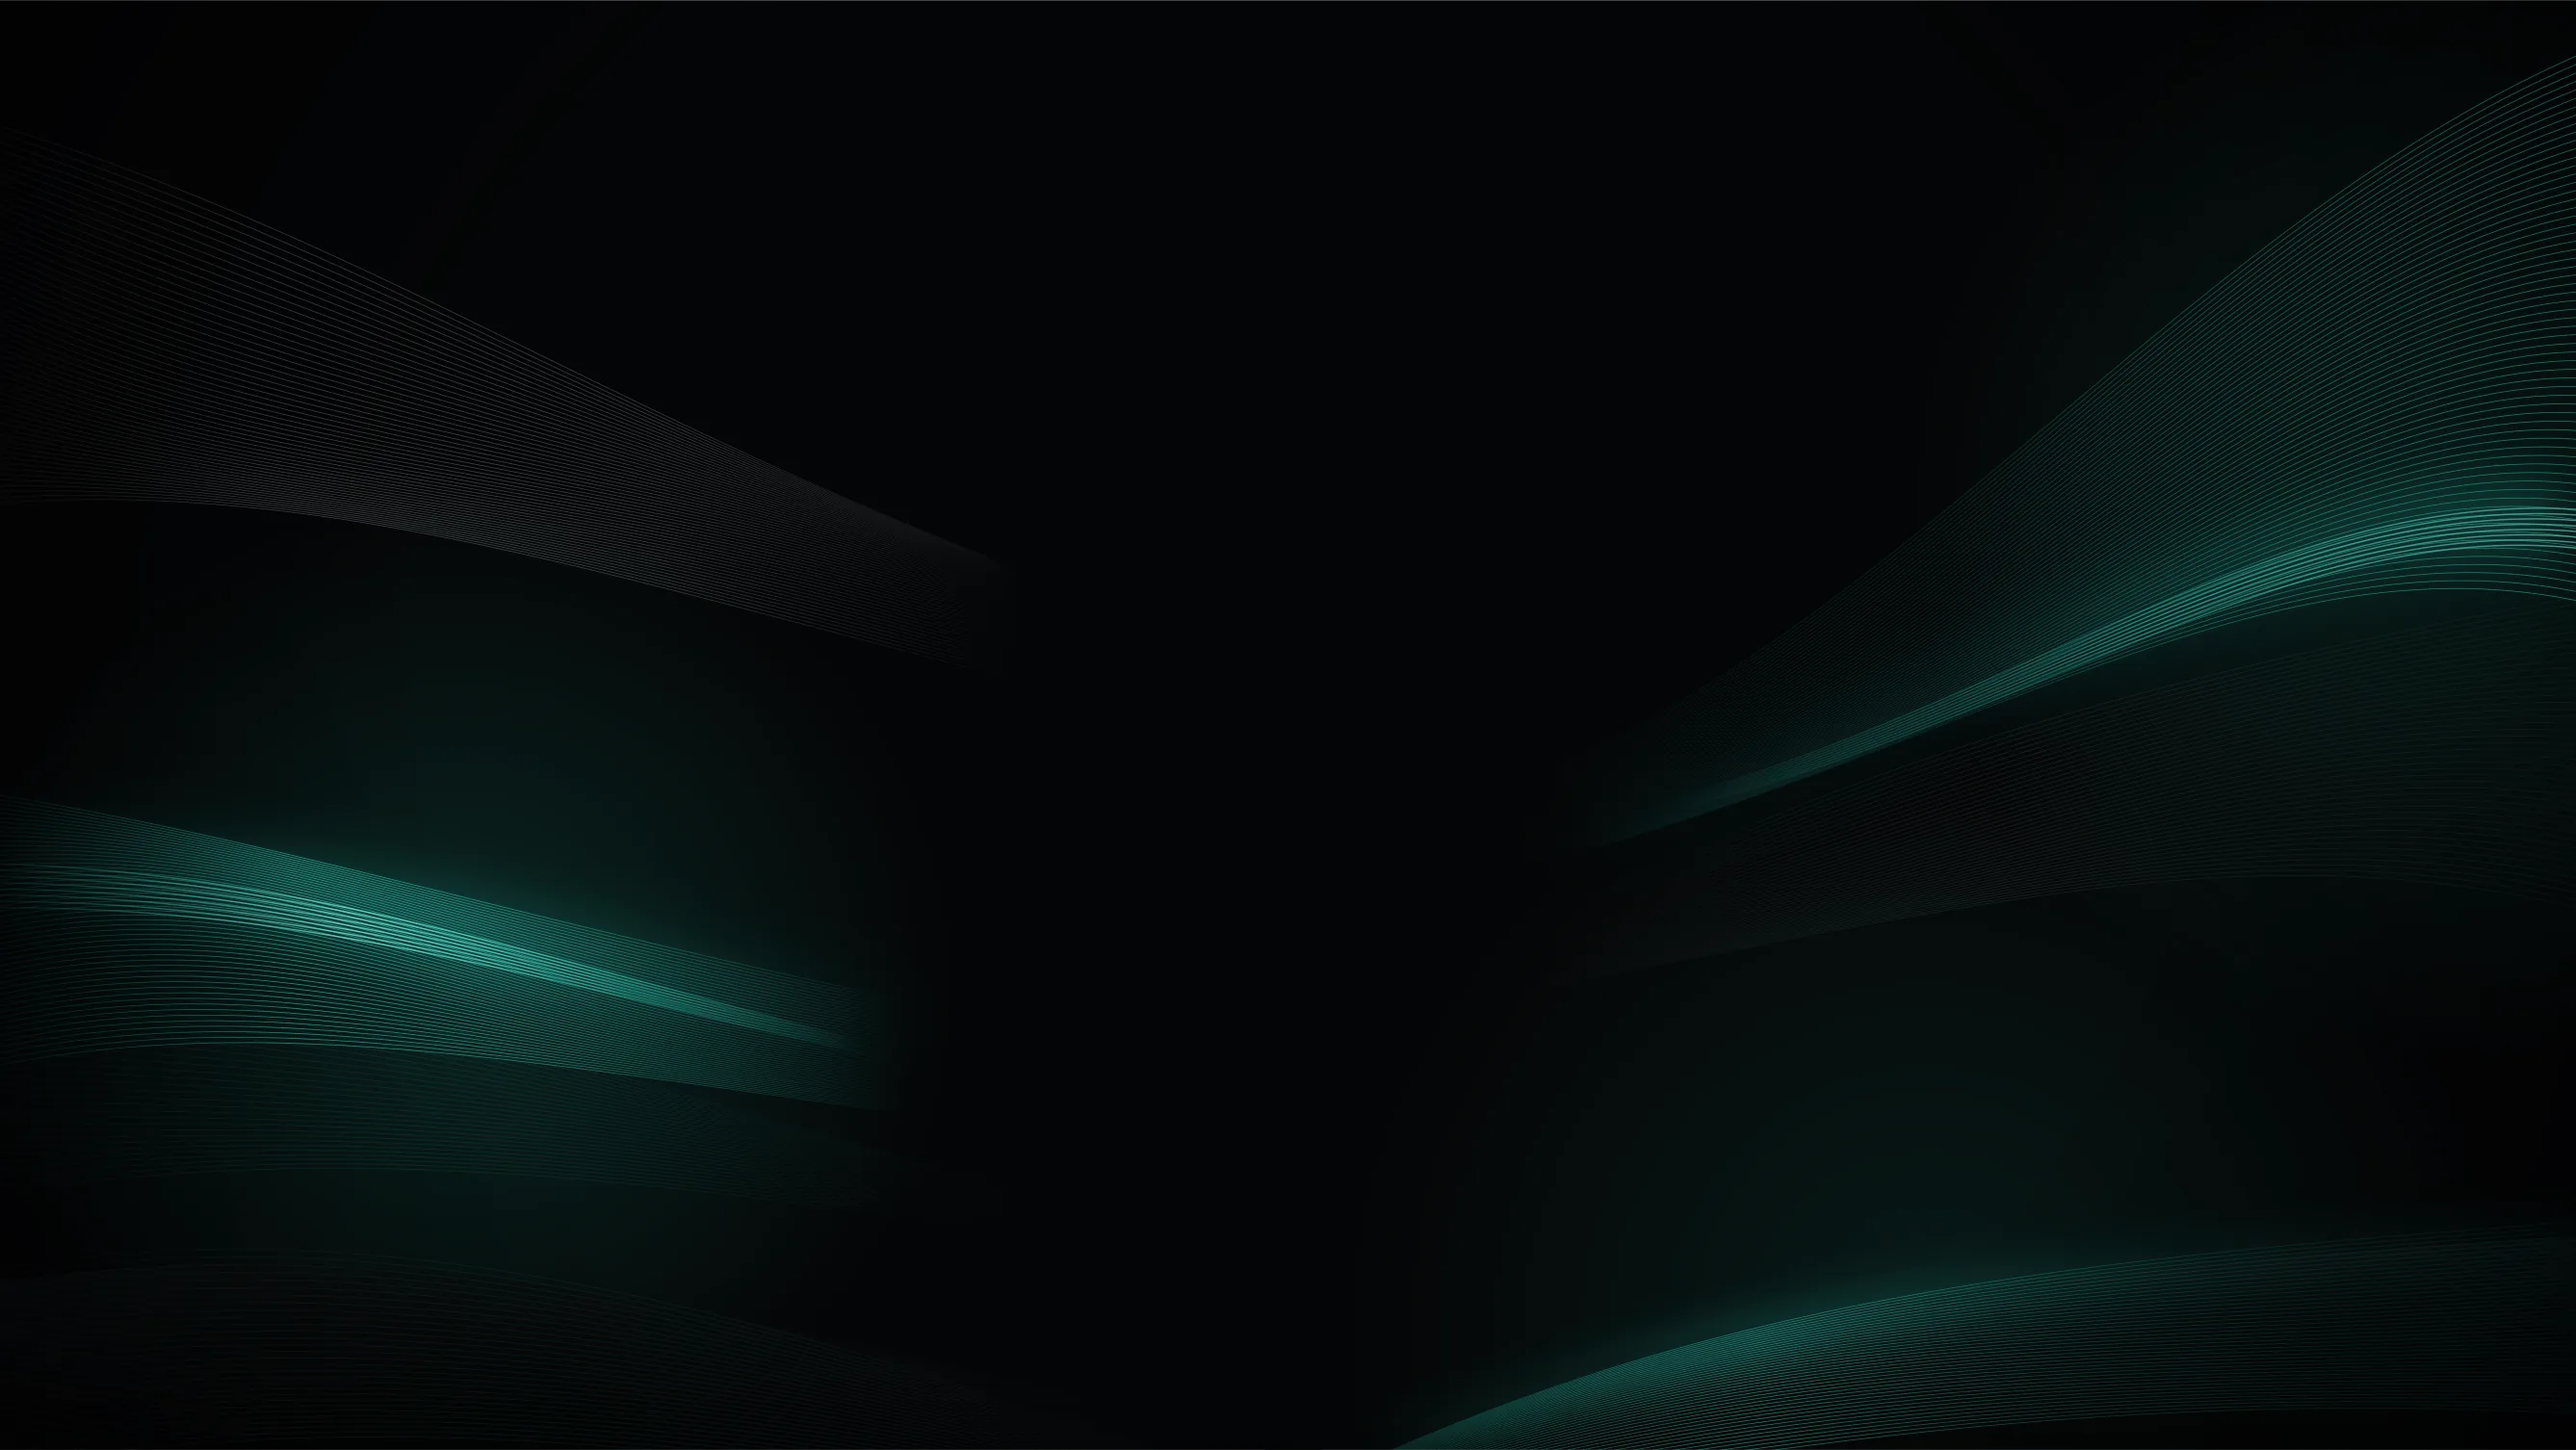
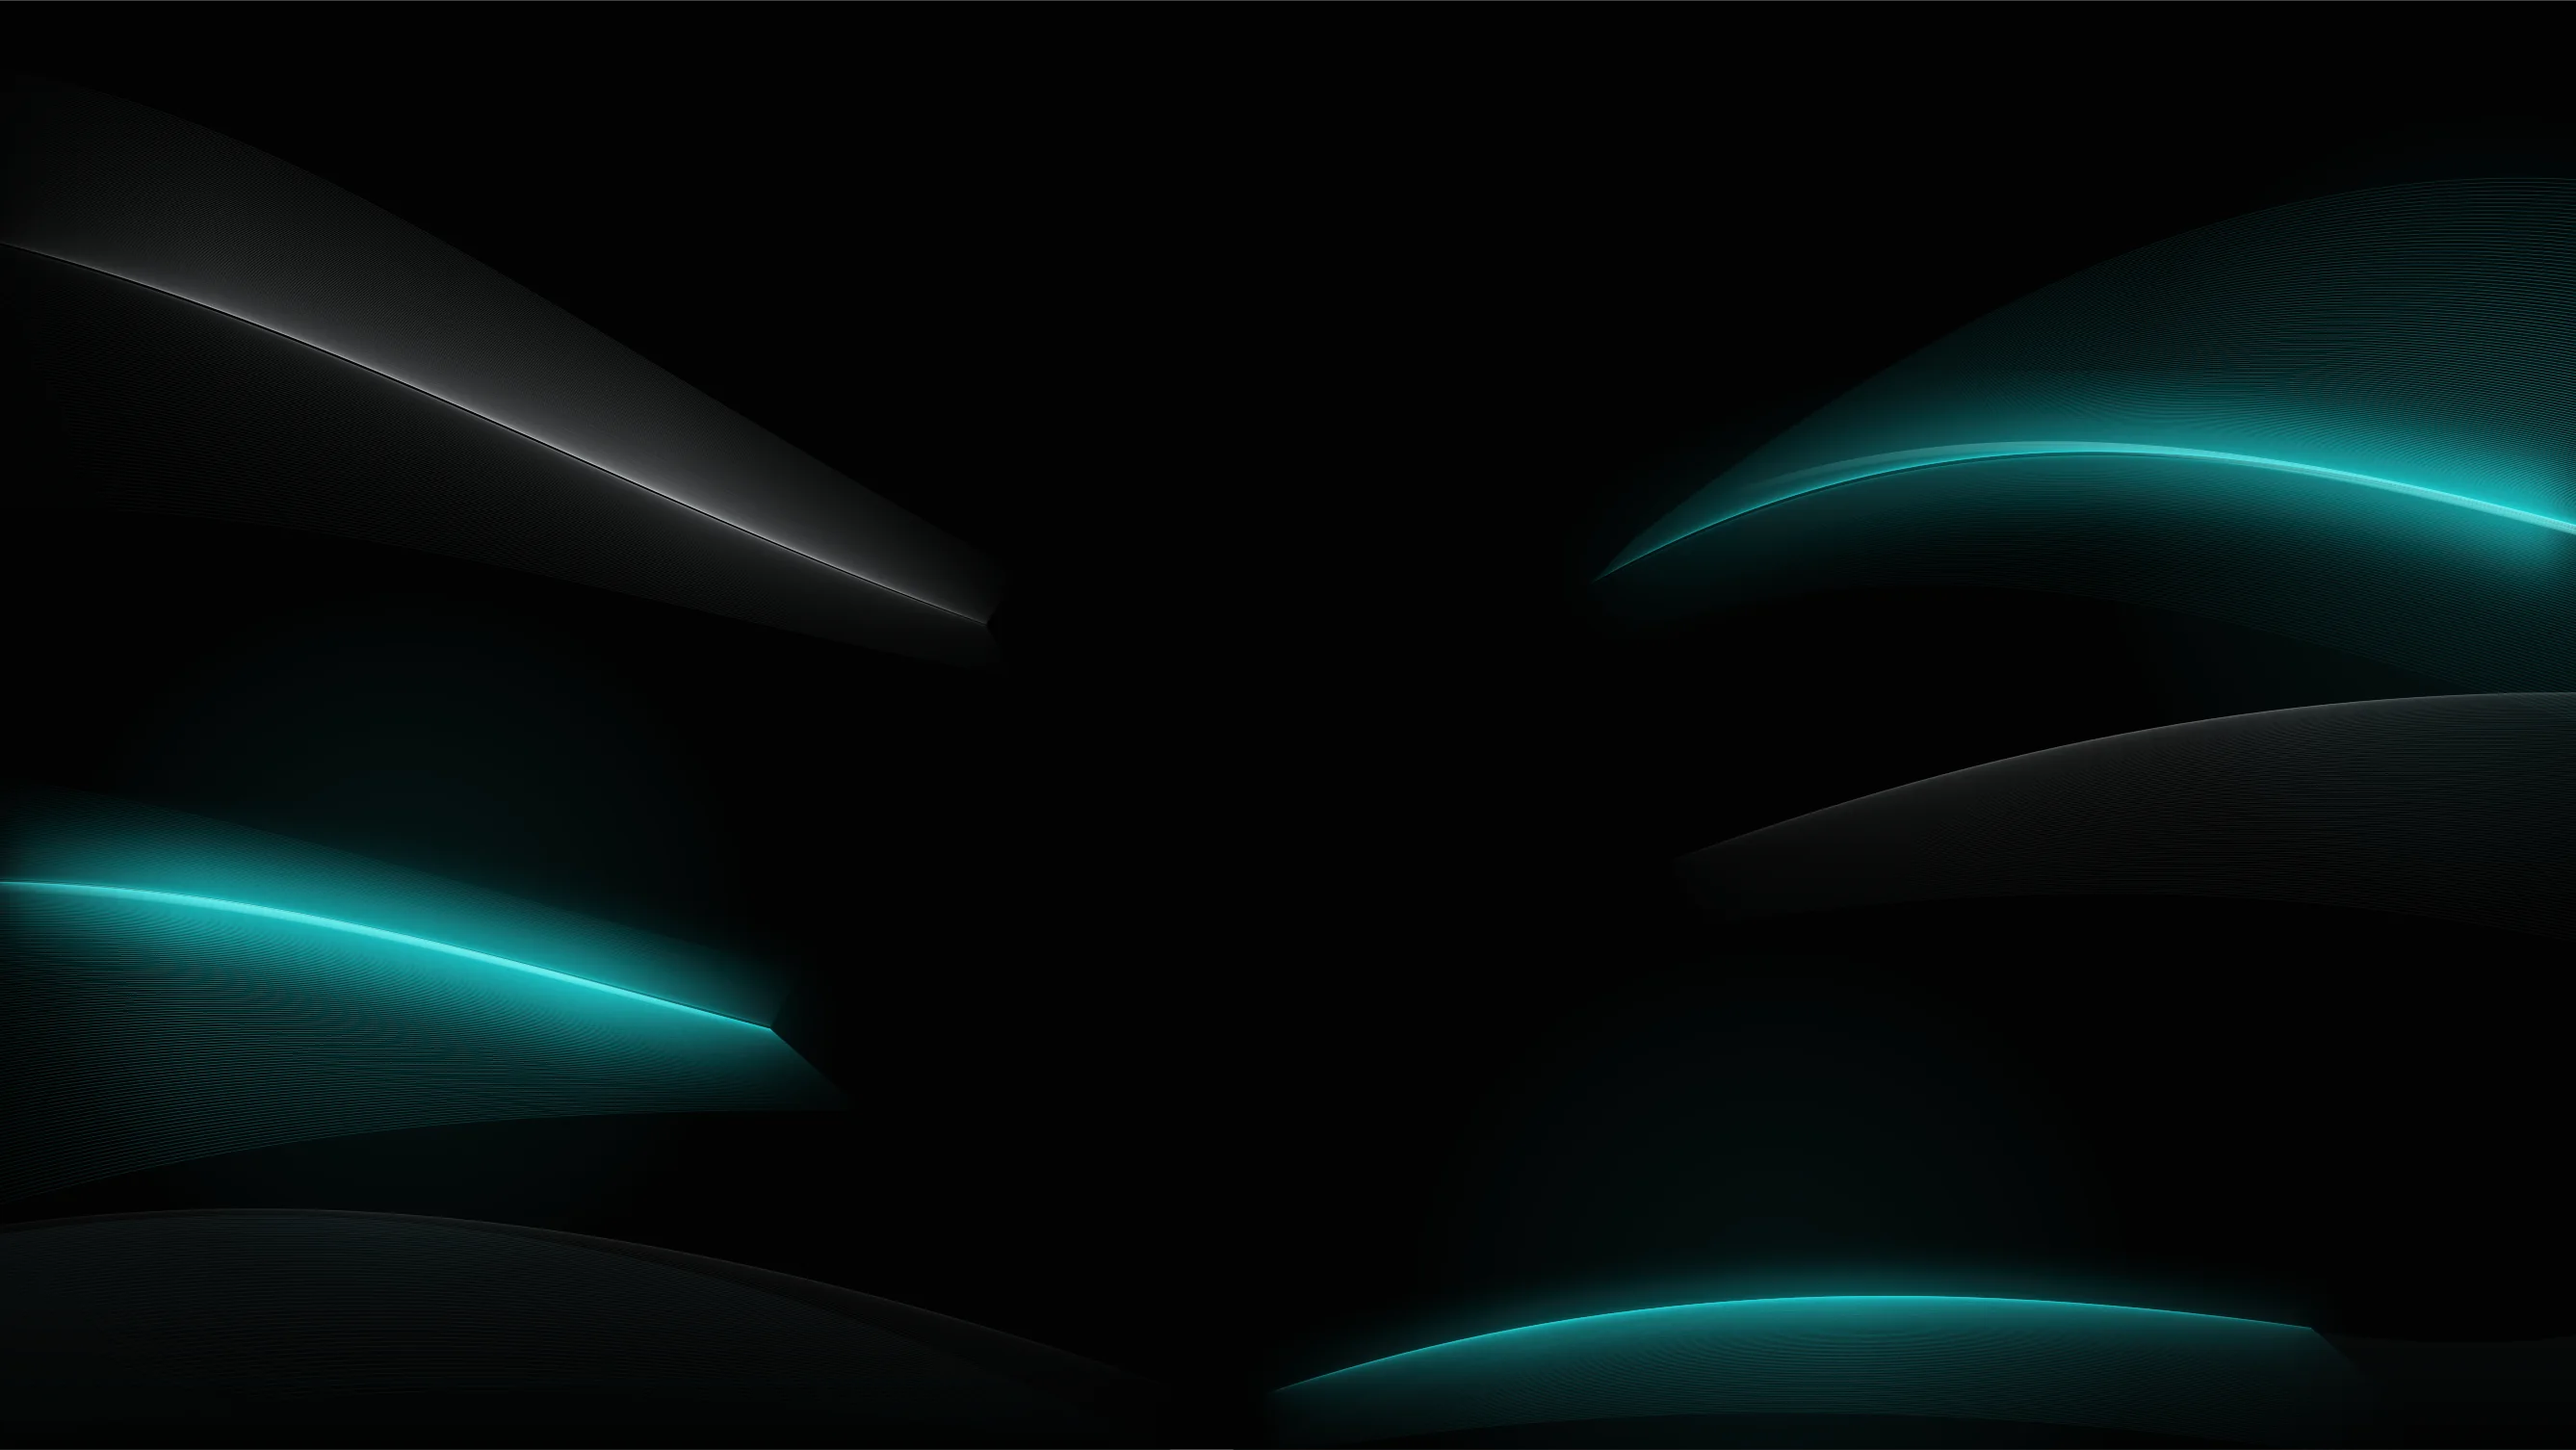
Homepage hero: closer to the reference — lit wave crests, cyan accents, heavier chrome headline
- Waves redrawn as folded sheets: lines bunch into a bright crest (with a
  blurred glow core) and fan out dimmer, on a near-black background with
  the full-frame teal haze removed.
- Mint shifted toward the reference's cyan (#1fd6dc) across the badge,
  headline, buttons, Get Access and the monogram fill.
- Headline heavier: solid text with a same-colour stroke, chrome / cyan
  gradients laid over it as a clipped copy (no seams inside glyphs; the
  copy has empty alt text so it is not read twice).
- Launch Terminal: solid 2px cyan border and tighter glow; button text 600.

Claude-Session: https://claude.ai/code/session_01UuPppN1kKYBdmQajvfk9G1

diff --git a/components/home/ReferenceHero.tsx b/components/home/ReferenceHero.tsx
@@ -13,8 +13,8 @@ export default function ReferenceHero() {
         <main className="ref-hero">
           <div className="ref-badge"><i aria-hidden="true" /><span>Powered by <b>Cortex Engine</b></span></div>
           <h1>
-            <span className="ref-line-1">Don&rsquo;t ape</span>
-            <span className="ref-line-2">blind.</span>
+            <span className="ref-line ref-line-1" data-text={'Don\u2019t ape'}>Don&rsquo;t ape</span>
+            <span className="ref-line ref-line-2" data-text="blind.">blind.</span>
           </h1>
           <div className="ref-ctas">
             <Link className="ref-btn ref-btn-terminal" href="/terminal">Launch Terminal</Link>
@@ -26,23 +26,29 @@ export default function ReferenceHero() {
         body:has(.ref-home-shell){margin:0}
         body:has(.ref-home-shell) .nav-outer{position:fixed!important;left:0;right:0}
         @media(min-width:1024px){body:has(.ref-home-shell) .nav-outer{padding-top:clamp(36px,4.2vw,70px)!important}}
-        .ref-home-shell{--mint:#1fd8c8;position:relative;min-height:max(680px,100svh);padding-top:clamp(72px,6vw,100px);display:flex;align-items:center;justify-content:center;background:#040506;overflow:hidden;color:#fff;isolation:isolate}
-        .ref-bg{position:absolute;inset:0;z-index:-1;background:#040506 url('/home/hero-waves.webp') center/cover no-repeat}
-        .ref-bg::after{content:"";position:absolute;inset:auto 0 0 0;height:140px;background:linear-gradient(180deg,transparent,#040506)}
+        .ref-home-shell{--mint:#1fd6dc;position:relative;min-height:max(680px,100svh);padding-top:clamp(72px,6vw,100px);display:flex;align-items:center;justify-content:center;background:#020303;overflow:hidden;color:#fff;isolation:isolate}
+        .ref-bg{position:absolute;inset:0;z-index:-1;background:#020303 url('/home/hero-waves.webp') center/cover no-repeat}
+        .ref-bg::after{content:"";position:absolute;inset:auto 0 0 0;height:140px;background:linear-gradient(180deg,transparent,#020303)}
         .ref-hero{display:flex;flex-direction:column;align-items:center;text-align:center;padding:24px 20px 64px;font-family:var(--font-jakarta,'Plus Jakarta Sans',sans-serif)}
-        .ref-badge{display:inline-flex;align-items:center;gap:14px;margin-bottom:clamp(22px,2.6vw,34px);font-size:clamp(13px,1.05vw,17px);font-weight:500;letter-spacing:.035em;text-transform:uppercase;color:rgba(214,220,224,.66)}
-        .ref-badge i{width:clamp(12px,1vw,16px);height:clamp(12px,1vw,16px);border-radius:50%;background:var(--mint);box-shadow:0 0 12px rgba(31,216,200,.55)}
+        .ref-badge{display:inline-flex;align-items:center;gap:14px;margin-bottom:clamp(22px,2.6vw,34px);font-size:clamp(13px,1.05vw,17px);font-weight:500;letter-spacing:.035em;text-transform:uppercase;color:rgba(206,212,216,.62)}
+        .ref-badge i{width:clamp(12px,1vw,16px);height:clamp(12px,1vw,16px);border-radius:50%;background:var(--mint);box-shadow:0 0 12px rgba(31,214,220,.6)}
         .ref-badge b{font-weight:600;color:var(--mint)}
-        .ref-hero h1{margin:0;display:flex;flex-direction:column;align-items:center;font-family:var(--font-sora,'Sora',sans-serif);font-weight:800;font-size:clamp(50px,6.2vw,106px);line-height:1.05;letter-spacing:-.02em}
-        .ref-line-1{background:linear-gradient(180deg,#ffffff 0%,#e9edef 55%,#c9cfd3 100%);-webkit-background-clip:text;background-clip:text;-webkit-text-fill-color:transparent}
-        .ref-line-2{background:linear-gradient(180deg,#3fe9d8 0%,#16cfc6 60%,#10b9b8 100%);-webkit-background-clip:text;background-clip:text;-webkit-text-fill-color:transparent;filter:drop-shadow(0 0 22px rgba(31,216,200,.18))}
+        .ref-hero h1{margin:0;display:flex;flex-direction:column;align-items:center;font-family:var(--font-sora,'Sora',sans-serif);font-weight:800;font-size:clamp(50px,6.2vw,106px);line-height:1.05;letter-spacing:-.01em}
+        /* Each line: solid text with a same-colour stroke for extra weight (no visible seams), and
+           the chrome gradient laid over it as a copy clipped to the glyphs. */
+        .ref-line{position:relative;-webkit-text-stroke:.024em currentColor}
+        .ref-line::after{content:attr(data-text);content:attr(data-text) / "";position:absolute;inset:0;-webkit-text-stroke:0;-webkit-background-clip:text;background-clip:text;-webkit-text-fill-color:transparent;pointer-events:none}
+        .ref-line-1{color:#e4e8ea;filter:drop-shadow(0 2px 14px rgba(0,0,0,.6))}
+        .ref-line-1::after{background-image:linear-gradient(172deg,#ffffff 0%,#f4f6f7 38%,#c4cacf 62%,#eef1f2 82%,#d5dade 100%)}
+        .ref-line-2{color:#19c9d1;filter:drop-shadow(0 0 26px rgba(31,214,220,.24))}
+        .ref-line-2::after{background-image:linear-gradient(172deg,#62f1f1 0%,#1fd6dc 42%,#12bccb 70%,#28d9de 100%)}
         .ref-ctas{display:flex;gap:clamp(14px,1.4vw,24px);margin-top:clamp(36px,3.9vw,64px)}
-        .ref-btn{display:inline-flex;align-items:center;justify-content:center;width:clamp(200px,15.2vw,256px);height:clamp(52px,3.75vw,62px);border-radius:12px;color:#fff;text-decoration:none;font-size:clamp(15px,1.08vw,18px);font-weight:500;letter-spacing:.005em;transition:border-color .18s ease,box-shadow .18s ease,background .18s ease,transform .18s ease}
-        .ref-btn-terminal{background:linear-gradient(180deg,rgba(31,216,200,.07),rgba(31,216,200,.02)),rgba(6,12,13,.72);border:1.5px solid rgba(31,216,200,.78);box-shadow:0 0 18px rgba(31,216,200,.22),inset 0 0 14px rgba(31,216,200,.10)}
-        .ref-btn-terminal:hover{border-color:#3fe9d8;box-shadow:0 0 26px rgba(31,216,200,.32),inset 0 0 16px rgba(31,216,200,.14);transform:translateY(-1px)}
-        .ref-btn-scan{background:rgba(6,7,8,.92);border:1.5px solid rgba(200,206,210,.30)}
+        .ref-btn{display:inline-flex;align-items:center;justify-content:center;width:clamp(200px,15.2vw,256px);height:clamp(52px,3.75vw,62px);border-radius:12px;color:#fff;text-decoration:none;font-size:clamp(15px,1.1vw,18.5px);font-weight:600;letter-spacing:.005em;transition:border-color .18s ease,box-shadow .18s ease,background .18s ease,transform .18s ease}
+        .ref-btn-terminal{background:linear-gradient(180deg,rgba(31,214,220,.06),rgba(31,214,220,.015)),rgba(4,10,11,.78);border:2px solid #22d3da;box-shadow:0 0 16px rgba(31,214,220,.35),0 0 2px rgba(31,214,220,.6),inset 0 0 12px rgba(31,214,220,.14)}
+        .ref-btn-terminal:hover{border-color:#5cf0f0;box-shadow:0 0 24px rgba(31,214,220,.45),0 0 2px rgba(31,214,220,.7),inset 0 0 14px rgba(31,214,220,.18);transform:translateY(-1px)}
+        .ref-btn-scan{background:rgba(3,4,5,.94);border:2px solid rgba(190,196,200,.34)}
         .ref-btn-scan:hover{border-color:rgba(220,226,230,.5);background:rgba(12,14,16,.95);transform:translateY(-1px)}
-        .ref-btn:focus-visible{outline:2px solid #3fe9d8;outline-offset:3px}
+        .ref-btn:focus-visible{outline:2px solid #5cf0f0;outline-offset:3px}
         @media(max-width:767px){.ref-home-shell{min-height:max(600px,92svh)}.ref-bg{background-position:58% center}.ref-badge{gap:10px}}
         @media(max-width:480px){.ref-ctas{flex-direction:column;width:100%;max-width:320px}.ref-btn{width:100%}}
         @media(prefers-reduced-motion:reduce){.ref-btn{transition:none}}

diff --git a/components/Navbar.tsx b/components/Navbar.tsx
@@ -162,9 +162,9 @@ export default function Navbar() {
           display: inline-flex; align-items: center; gap: 10px;
           height: clamp(40px, 2.9vw, 48px); padding: 0 clamp(16px, 1.6vw, 28px); border-radius: 999px;
           background: rgba(31,216,200,0.04);
-          border: 1.5px solid rgba(31,216,200,0.85);
-          box-shadow: 0 0 14px rgba(31,216,200,0.18), inset 0 0 10px rgba(31,216,200,0.06);
-          color: #2fe3d2;
+          border: 1.5px solid #22d3da;
+          box-shadow: 0 0 14px rgba(31,214,220,0.22), inset 0 0 10px rgba(31,214,220,0.06);
+          color: #2bdde3;
           font-family: var(--font-jakarta, 'Plus Jakarta Sans', sans-serif);
           font-size: clamp(14px, 1.08vw, 18px); font-weight: 500;
           text-decoration: none;
@@ -222,7 +222,7 @@ export default function Navbar() {
         /* Brand monogram: the existing /cl-mark.png shape, filled mint to white. */
         .nav-mark {
           display: block; width: clamp(40px, 3.3vw, 54px); aspect-ratio: 300 / 192; flex-shrink: 0;
-          background: linear-gradient(100deg, #1fd8c8 0%, #5fe9da 42%, #ffffff 70%);
+          background: linear-gradient(100deg, #1fd6dc 0%, #63ecec 42%, #ffffff 70%);
           -webkit-mask: url('/cl-mark.png') center / contain no-repeat;
           mask: url('/cl-mark.png') center / contain no-repeat;
         }
